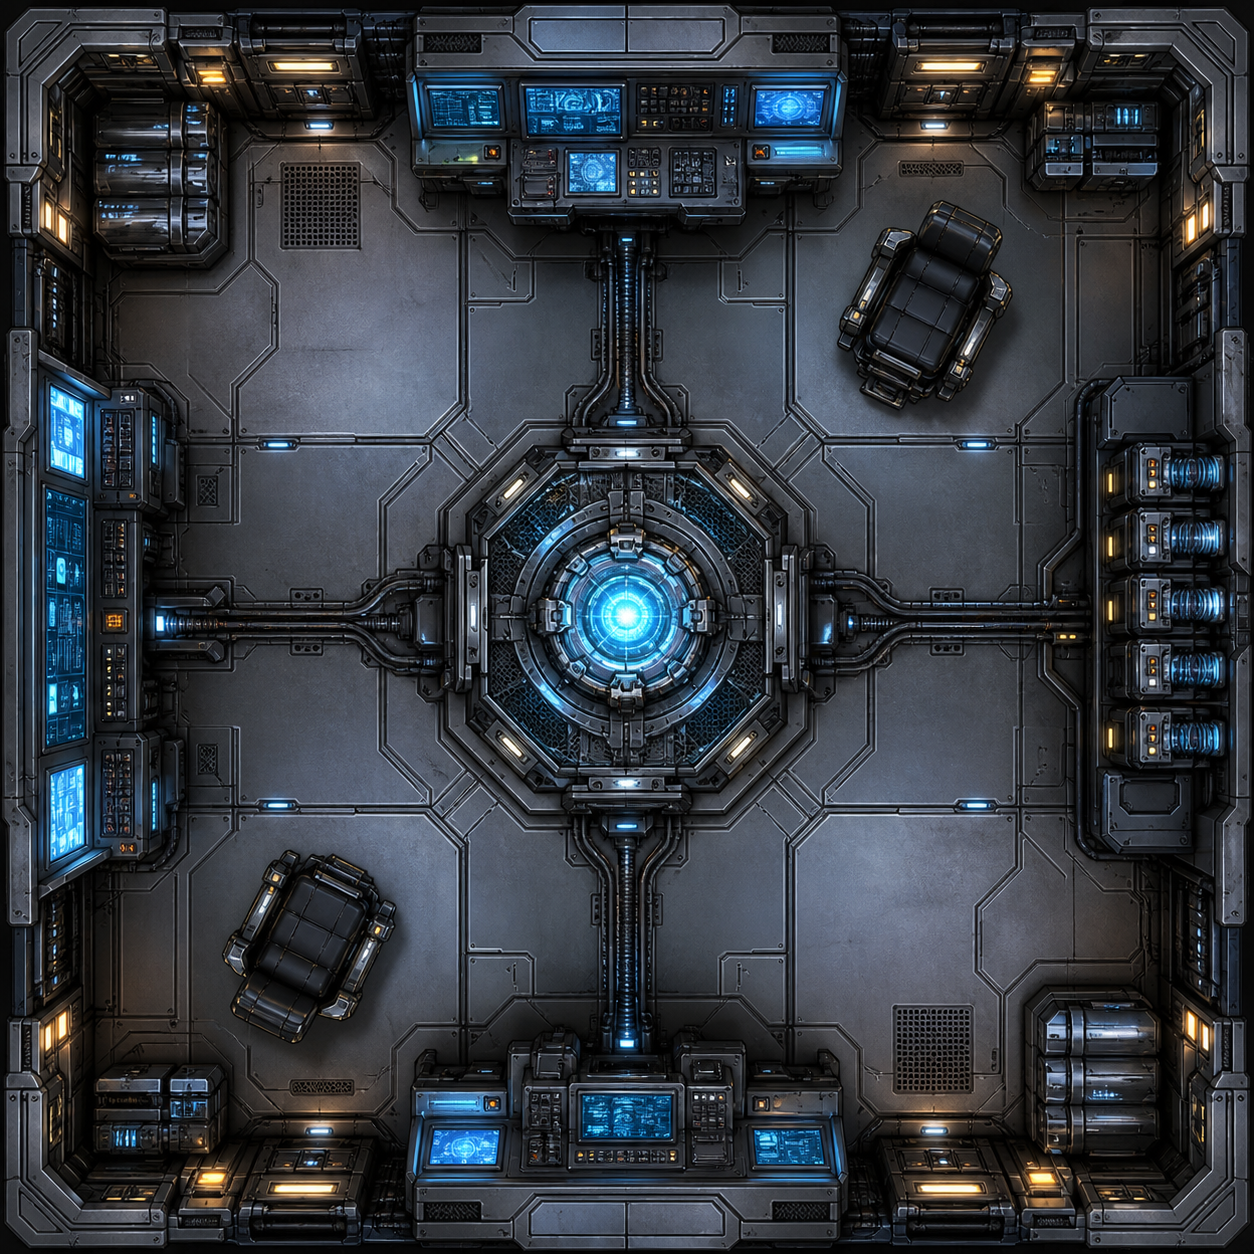
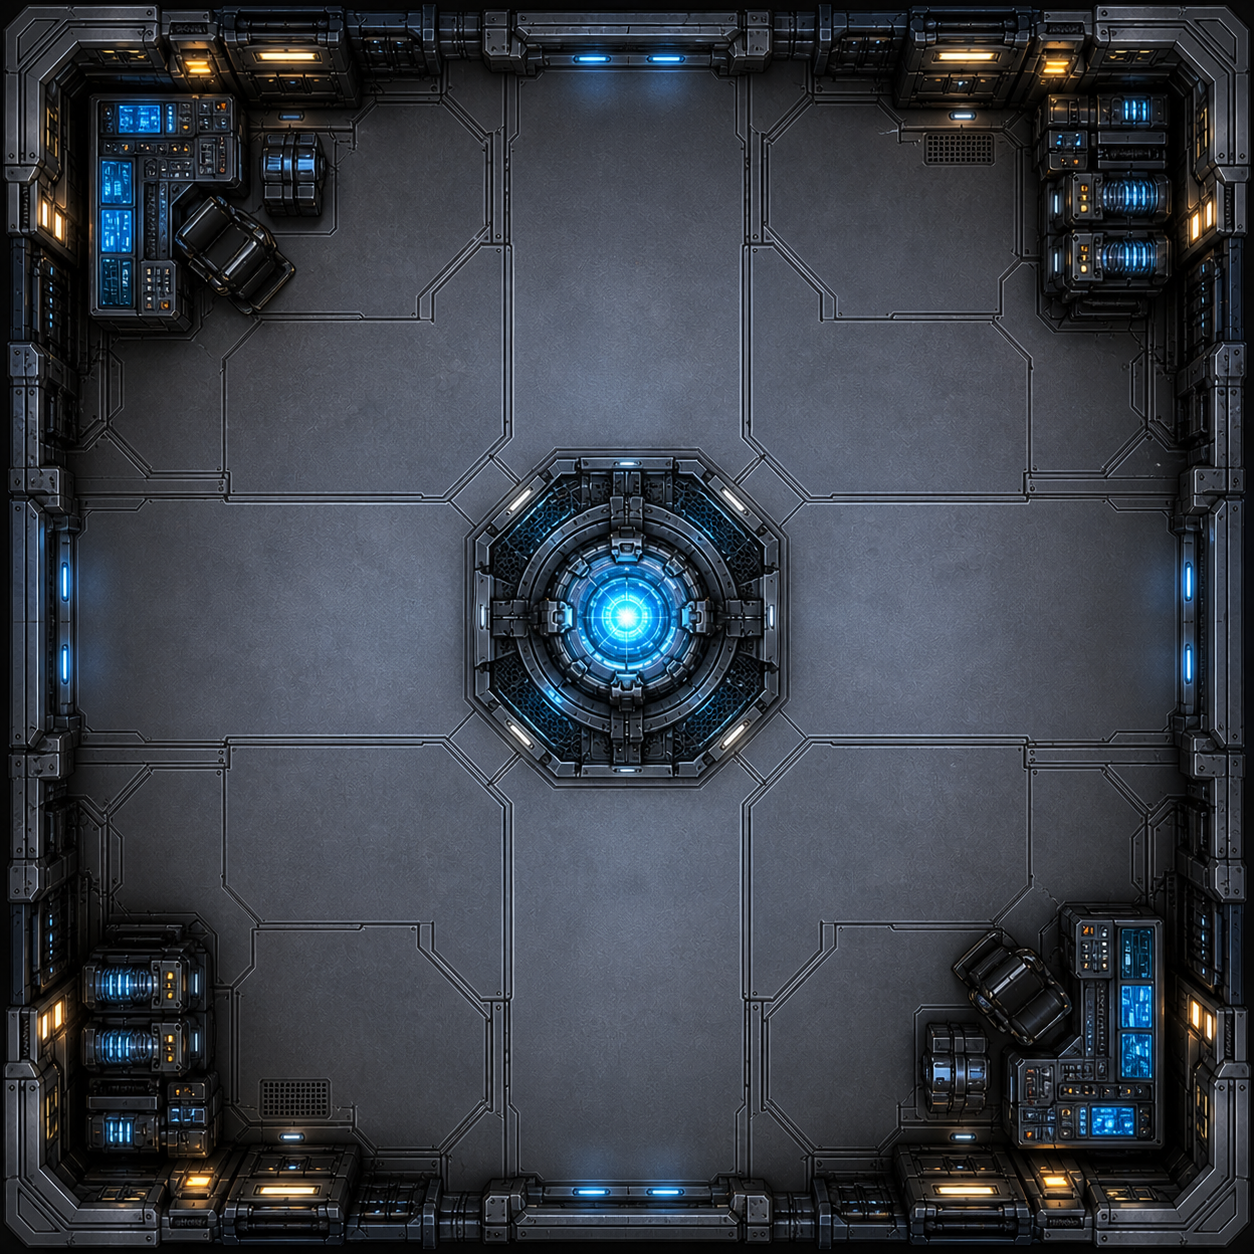
Add starship walls and interactive doors

diff --git a/starship.js b/starship.js
@@ -14,8 +14,9 @@ function loadMapView() {
       labels: saved.labels !== false,
       highResolution: Boolean(saved.highResolution),
       combatMesh: Boolean(saved.combatMesh),
+      walls: saved.walls !== false,
     };
-  } catch { return { labels: true, highResolution: false, combatMesh: false }; }
+  } catch { return { labels: true, highResolution: false, combatMesh: false, walls: true }; }
 }
 
 function constructionState(source) {
@@ -45,6 +46,8 @@ function defaultDraft() {
     buildVersion: BUILD_VERSION,
     title: "", affiliation: "", class: "",
     reputationSelections: [5, 5, 5, 5, 5], popularity: 0,
+    doorStates: {},
+    crewCharacterIds: [], crewmemberNames: [],
     ...initial, confirmed: clone(initial),
   };
 }
@@ -58,6 +61,9 @@ function loadDraft() {
       reputationSelections: Array.isArray(saved.reputationSelections) && saved.reputationSelections.length === 5
         ? saved.reputationSelections.map((value) => Math.max(0, Math.min(10, Number(value) || 0))) : fresh.reputationSelections,
       popularity: Math.max(0, Math.min(100, Number(saved.popularity) || 0)),
+      doorStates: saved.doorStates && typeof saved.doorStates === "object" ? saved.doorStates : {},
+      crewCharacterIds: Array.isArray(saved.crewCharacterIds) ? saved.crewCharacterIds.map(String) : [],
+      crewmemberNames: Array.isArray(saved.crewmemberNames) ? saved.crewmemberNames.map(String) : [],
     };
     if (saved.buildVersion !== BUILD_VERSION) return { ...fresh, ...identity };
     const working = constructionState(saved);
@@ -72,6 +78,13 @@ let undoState = null;
 let selectedSicId = null;
 let mobilePreviewCell = null;
 let validation = { errors: [], cells: new Set() };
+
+const SIDES = [
+  { name: "top", offset: -GRID_SIZE, valid: (index) => index >= GRID_SIZE },
+  { name: "right", offset: 1, valid: (index) => index % GRID_SIZE < GRID_SIZE - 1 },
+  { name: "bottom", offset: GRID_SIZE, valid: (index) => index < GRID_SIZE * (GRID_SIZE - 1) },
+  { name: "left", offset: -1, valid: (index) => index % GRID_SIZE > 0 },
+];
 
 const shipFields = [...document.querySelectorAll("[data-ship-field]")];
 const shipGrids = [...document.querySelectorAll(".ship-grid")];
@@ -114,6 +127,80 @@ function selectedSic() {
 }
 function placementAt(cell) { return draft.placements.find((placement) => placement.cell === cell) || null; }
 function placementForSic(sicId) { return draft.placements.find((placement) => placement.sicId === sicId) || null; }
+
+function doorKey(firstCell, secondCell) {
+  return [firstCell, secondCell].sort((left, right) => left - right).join(":");
+}
+
+function currentDoorOperator() {
+  const parameters = new URLSearchParams(location.search);
+  const requestedCharacterId = parameters.get("character") || localStorage.getItem("sa2e-active-character-v1") || "";
+  try {
+    const library = JSON.parse(localStorage.getItem("sa2e-character-library-v1") || "[]");
+    const character = Array.isArray(library) ? library.find((entry) => entry?.id === requestedCharacterId) : null;
+    return character ? { id: character.id, name: String(character.identity?.characterName || "").trim() } : null;
+  } catch { return null; }
+}
+
+function canOperateDoors() {
+  const parameters = new URLSearchParams(location.search);
+  const operator = currentDoorOperator();
+  const crewIds = Array.isArray(draft.crewCharacterIds) ? draft.crewCharacterIds : [];
+  const crewNames = Array.isArray(draft.crewmemberNames) ? draft.crewmemberNames.map((name) => String(name).trim().toLowerCase()) : [];
+  if (!parameters.has("character")) return true;
+  if (!operator) return false;
+  return crewIds.includes(operator.id) || crewNames.includes(operator.name.toLowerCase());
+}
+
+function makeWall(side, segment = "full") {
+  const wall = document.createElement("span");
+  wall.className = `sic-wall sic-wall-${side} sic-wall-${segment}`;
+  wall.setAttribute("aria-hidden", "true");
+  return wall;
+}
+
+function toggleDoor(key) {
+  if (!canOperateDoors()) {
+    showMessage("Only a listed crewmember can operate this door.", "error");
+    return;
+  }
+  draft.doorStates ||= {};
+  draft.doorStates[key] = draft.doorStates[key] === "open" ? "closed" : "open";
+  saveDraft();
+  renderGridCells();
+}
+
+function makeDoor(index, adjacent, side) {
+  const key = doorKey(index, adjacent);
+  const open = draft.doorStates?.[key] === "open";
+  const button = document.createElement("button");
+  button.type = "button";
+  button.className = `sic-door sic-door-${side}${open ? " is-open" : ""}`;
+  button.dataset.doorKey = key;
+  button.disabled = !canOperateDoors();
+  button.title = button.disabled ? "Only a listed crewmember can operate this door" : `${open ? "Close" : "Open"} door`;
+  button.setAttribute("aria-label", button.title);
+  button.setAttribute("aria-pressed", String(open));
+  const first = document.createElement("span");
+  const second = document.createElement("span");
+  first.className = "door-panel door-panel-first";
+  second.className = "door-panel door-panel-second";
+  button.append(first, second);
+  button.addEventListener("pointerdown", (event) => event.stopPropagation());
+  button.addEventListener("click", (event) => { event.stopPropagation(); toggleDoor(key); });
+  return button;
+}
+
+function renderEngineBoundaries(cell, index, hull) {
+  SIDES.forEach((side) => {
+    const adjacent = index + side.offset;
+    if (!side.valid(index) || !hull.has(adjacent)) {
+      cell.append(makeWall(side.name));
+      return;
+    }
+    cell.append(makeWall(side.name, "start"), makeWall(side.name, "end"), makeDoor(index, adjacent, side.name));
+  });
+}
 
 function shipScaleStats(squareCount) {
   const count = Number(squareCount) || 0;
@@ -248,6 +335,7 @@ function renderGridCells() {
     grid.classList.toggle("show-sic-labels", mapView.labels);
     grid.classList.toggle("high-resolution", mapView.highResolution && !placementActive);
     grid.classList.toggle("combat-mesh", mapView.combatMesh);
+    grid.classList.toggle("show-walls", mapView.walls && !placementActive);
     grid.classList.toggle("placement-active", placementActive);
     grid.querySelectorAll(".ship-grid-cell").forEach((cell) => {
       const index = Number(cell.dataset.gridIndex);
@@ -256,6 +344,7 @@ function renderGridCells() {
       cell.classList.toggle("has-engine", Boolean(placement));
       cell.classList.toggle("construction-error", validation.cells.has(index));
       cell.replaceChildren();
+      if (placement && mapView.walls && !placementActive) renderEngineBoundaries(cell, index, hull);
       if (placement && mapView.labels) {
         const label = document.createElement("span");
         label.className = "sic-grid-label";
@@ -275,9 +364,9 @@ function renderMapViewControls() {
     const key = toggle.dataset.mapToggle;
     toggle.checked = Boolean(mapView[key]);
     const label = toggle.closest("label");
-    const suspended = key === "highResolution" && placementActive && mapView.highResolution;
+    const suspended = (key === "highResolution" || key === "walls") && placementActive && mapView[key];
     label?.classList.toggle("is-suspended", suspended);
-    if (label) label.title = suspended ? "Basic colors remain visible while placing a SIC." : "";
+    if (label) label.title = suspended ? "Basic placement view remains visible while placing a SIC." : "";
   });
 }
 function renderMobilePlacement() {

diff --git a/starship.css b/starship.css
@@ -70,3 +70,7 @@ button,input{font:inherit}input{width:100%;min-width:0;border:0;border-bottom:1p
 
 @media(max-width:820px){.map-view-controls{gap:6px;padding:18px 7px 7px}.map-view-controls legend{font-size:.68rem}.map-view-controls label{min-height:48px}.map-view-controls label::before{width:34px;height:17px}.map-view-controls span{font-size:.55rem}.map-view-controls label.is-suspended::after{font-size:.34rem}.ship-grid.high-resolution .ship-grid-cell.has-engine:not(:empty){font-size:clamp(.2rem,1.35vw,.45rem)}}
 .sic-grid-label{position:relative;z-index:4;display:block;color:inherit;font:inherit;text-shadow:inherit;pointer-events:none}
+
+/* Strong construction grid, detailed hallway floors, and dynamic SIC doors */
+.desktop-grid-overlay{border:2px solid #000}.ship-grid-cell{border-right:0;border-bottom:0;box-shadow:inset 0 0 0 1.5px #000}.ship-grid-cell:nth-child(20n+5),.ship-grid-cell:nth-child(20n+10),.ship-grid-cell:nth-child(20n+15){border-right:2px solid #000}.ship-grid-cell:nth-child(n+81):nth-child(-n+100),.ship-grid-cell:nth-child(n+181):nth-child(-n+200),.ship-grid-cell:nth-child(n+281):nth-child(-n+300){border-bottom:2px solid #000}.map-view-controls{grid-template-columns:repeat(4,minmax(0,1fr))}.ship-grid.high-resolution .ship-grid-cell.is-selected:not(.has-engine){background:#545d63 url("hallway.png") center/cover no-repeat!important}
+.sic-wall,.sic-door{position:absolute;z-index:6;pointer-events:none}.sic-wall{background:#fff;box-shadow:0 0 0 1px #000,inset 0 0 0 1px #000}.sic-wall-top,.sic-wall-bottom{left:0;width:100%;height:9%}.sic-wall-left,.sic-wall-right{top:0;width:9%;height:100%}.sic-wall-top{top:0}.sic-wall-bottom{bottom:0}.sic-wall-left{left:0}.sic-wall-right{right:0}.sic-wall-top.sic-wall-start,.sic-wall-bottom.sic-wall-start{right:auto;width:30%}.sic-wall-top.sic-wall-end,.sic-wall-bottom.sic-wall-end{left:auto;right:0;width:30%}.sic-wall-left.sic-wall-start,.sic-wall-right.sic-wall-start{bottom:auto;height:30%}.sic-wall-left.sic-wall-end,.sic-wall-right.sic-wall-end{top:auto;bottom:0;height:30%}.sic-door{display:block;min-width:0;min-height:0;padding:0;border:0;border-radius:0;background:transparent;box-shadow:none;pointer-events:auto;overflow:hidden}.sic-door:disabled{opacity:.8;cursor:not-allowed}.sic-door-top,.sic-door-bottom{left:30%;width:40%;height:14%}.sic-door-left,.sic-door-right{top:30%;width:14%;height:40%}.sic-door-top{top:-2%}.sic-door-bottom{bottom:-2%}.sic-door-left{left:-2%}.sic-door-right{right:-2%}.door-panel{position:absolute;display:block;background:#555d65;border:1px solid #000;transition:transform .34s cubic-bezier(.3,.7,.2,1)}.sic-door-top .door-panel,.sic-door-bottom .door-panel{top:0;width:52%;height:100%}.sic-door-top .door-panel-first,.sic-door-bottom .door-panel-first{left:0}.sic-door-top .door-panel-second,.sic-door-bottom .door-panel-second{right:0}.sic-door-left .door-panel,.sic-door-right .door-panel{left:0;width:100%;height:52%}.sic-door-left .door-panel-first,.sic-door-right .door-panel-first{top:0}.sic-door-left .door-panel-second,.sic-door-right .door-panel-second{bottom:0}.sic-door-top.is-open .door-panel-first,.sic-door-bottom.is-open .door-panel-first{transform:translateX(-92%)}.sic-door-top.is-open .door-panel-second,.sic-door-bottom.is-open .door-panel-second{transform:translateX(92%)}.sic-door-left.is-open .door-panel-first,.sic-door-right.is-open .door-panel-first{transform:translateY(-92%)}.sic-door-left.is-open .door-panel-second,.sic-door-right.is-open .door-panel-second{transform:translateY(92%)}

diff --git a/starship.html b/starship.html
@@ -5,7 +5,7 @@
     <meta name="viewport" content="width=device-width, initial-scale=1.0" />
     <title>Spaceship Architect Starship Creator</title>
     <link rel="icon" href="data:," />
-    <link rel="stylesheet" href="starship.css?v=20260824-map-view1" />
+    <link rel="stylesheet" href="starship.css?v=20260824-walls1" />
   </head>
   <body>
     <header class="starship-header">
@@ -75,6 +75,7 @@
             <label><input type="checkbox" data-map-toggle="labels" checked /><span>Labels</span></label>
             <label><input type="checkbox" data-map-toggle="highResolution" /><span>High Resolution</span></label>
             <label><input type="checkbox" data-map-toggle="combatMesh" /><span>Combat Mesh</span></label>
+            <label><input type="checkbox" data-map-toggle="walls" checked /><span>Walls</span></label>
           </fieldset>
           <div class="sic-state-list" data-sic-list="pending"></div>
           <div class="sic-state-list" data-sic-list="queue"></div>
@@ -157,6 +158,7 @@
             <label><input type="checkbox" data-map-toggle="labels" checked /><span>Labels</span></label>
             <label><input type="checkbox" data-map-toggle="highResolution" /><span>High Resolution</span></label>
             <label><input type="checkbox" data-map-toggle="combatMesh" /><span>Combat Mesh</span></label>
+            <label><input type="checkbox" data-map-toggle="walls" checked /><span>Walls</span></label>
           </fieldset>
           <div class="sic-state-list" data-sic-list="pending"></div>
           <div class="sic-state-list" data-sic-list="queue"></div>
@@ -211,6 +213,6 @@
       </section>
     </main>
     <dialog id="sicCardDialog" class="sic-card-dialog" aria-label="SIC card details"><button type="button" data-close-sic-card aria-label="Close card">×</button><div data-sic-card-dialog-body></div></dialog>
-    <script src="starship.js?v=20260824-map-view1"></script>
+    <script src="starship.js?v=20260824-walls1"></script>
   </body>
 </html>

diff --git a/index.html b/index.html
@@ -43,7 +43,7 @@
             <div id="pcLoginMatchList"></div>
           </section>
         </div>
-        <small id="appVersion" class="app-version">Playtest Build 2026.08.24.3</small>
+        <small id="appVersion" class="app-version">Playtest Build 2026.08.24.4</small>
       </section>
 
       <section id="topbar" class="topbar">
